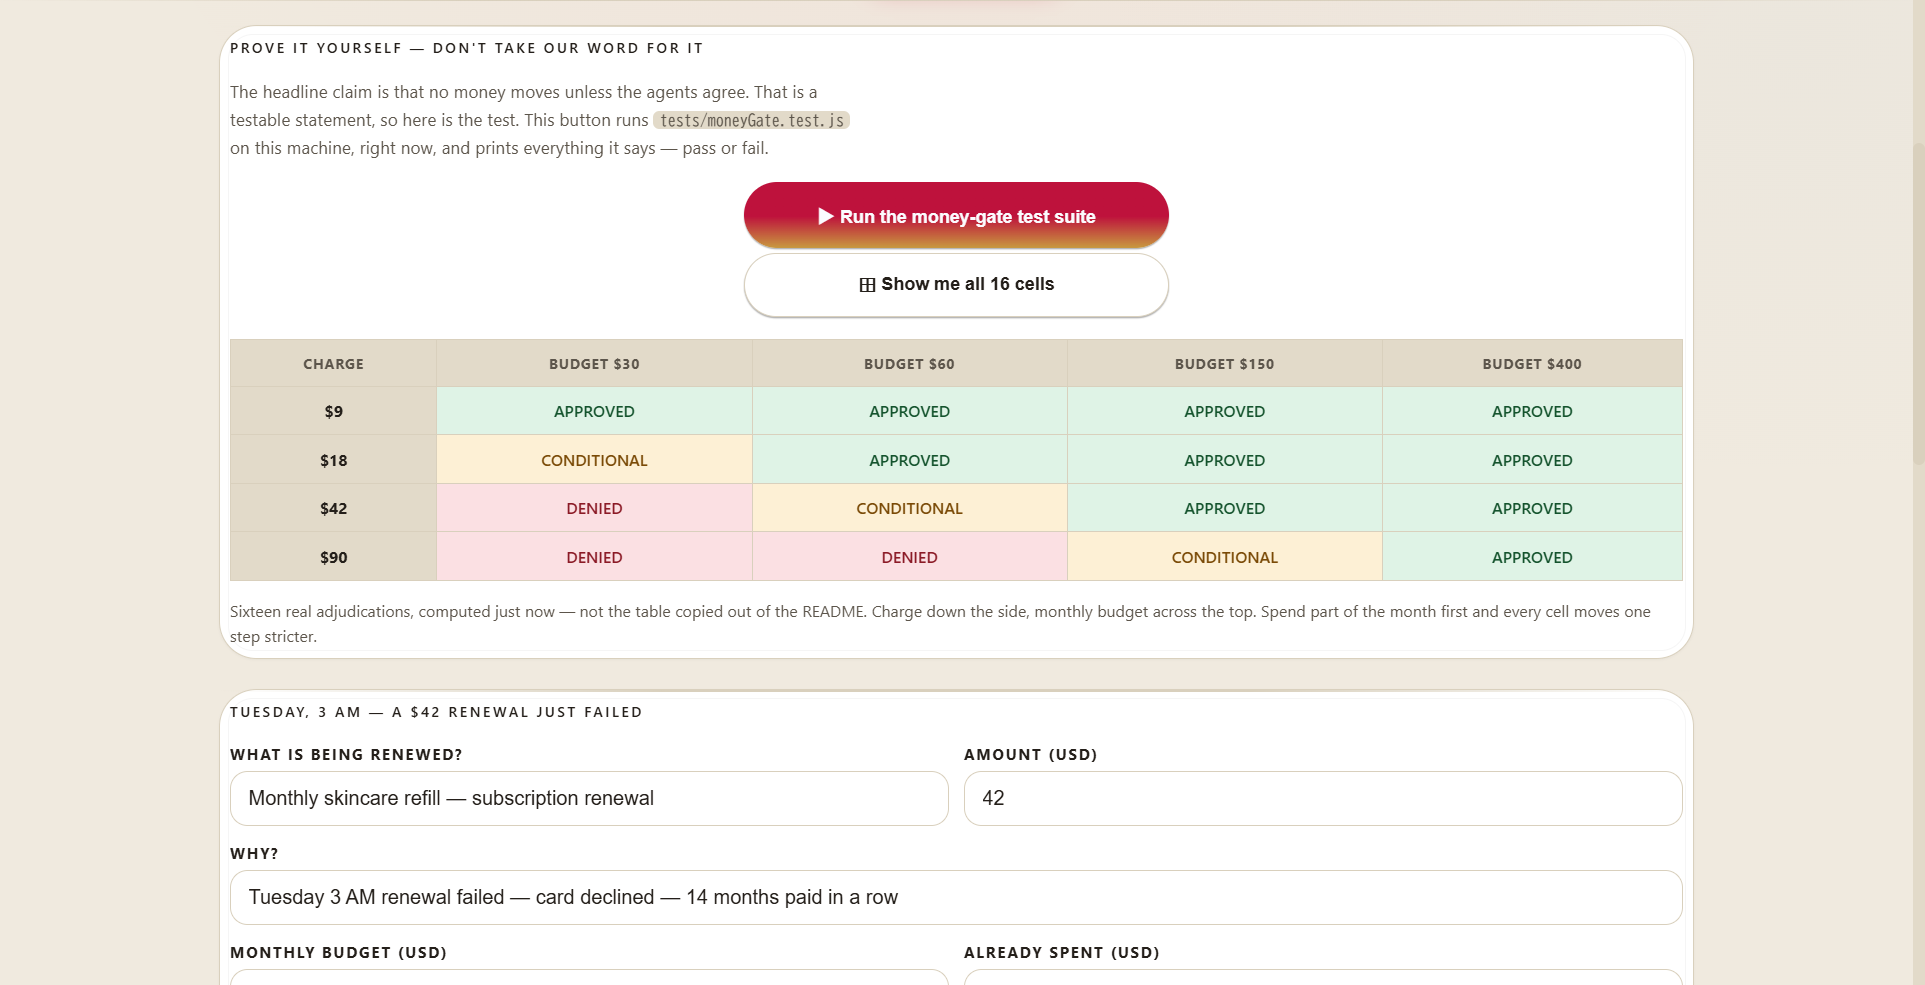
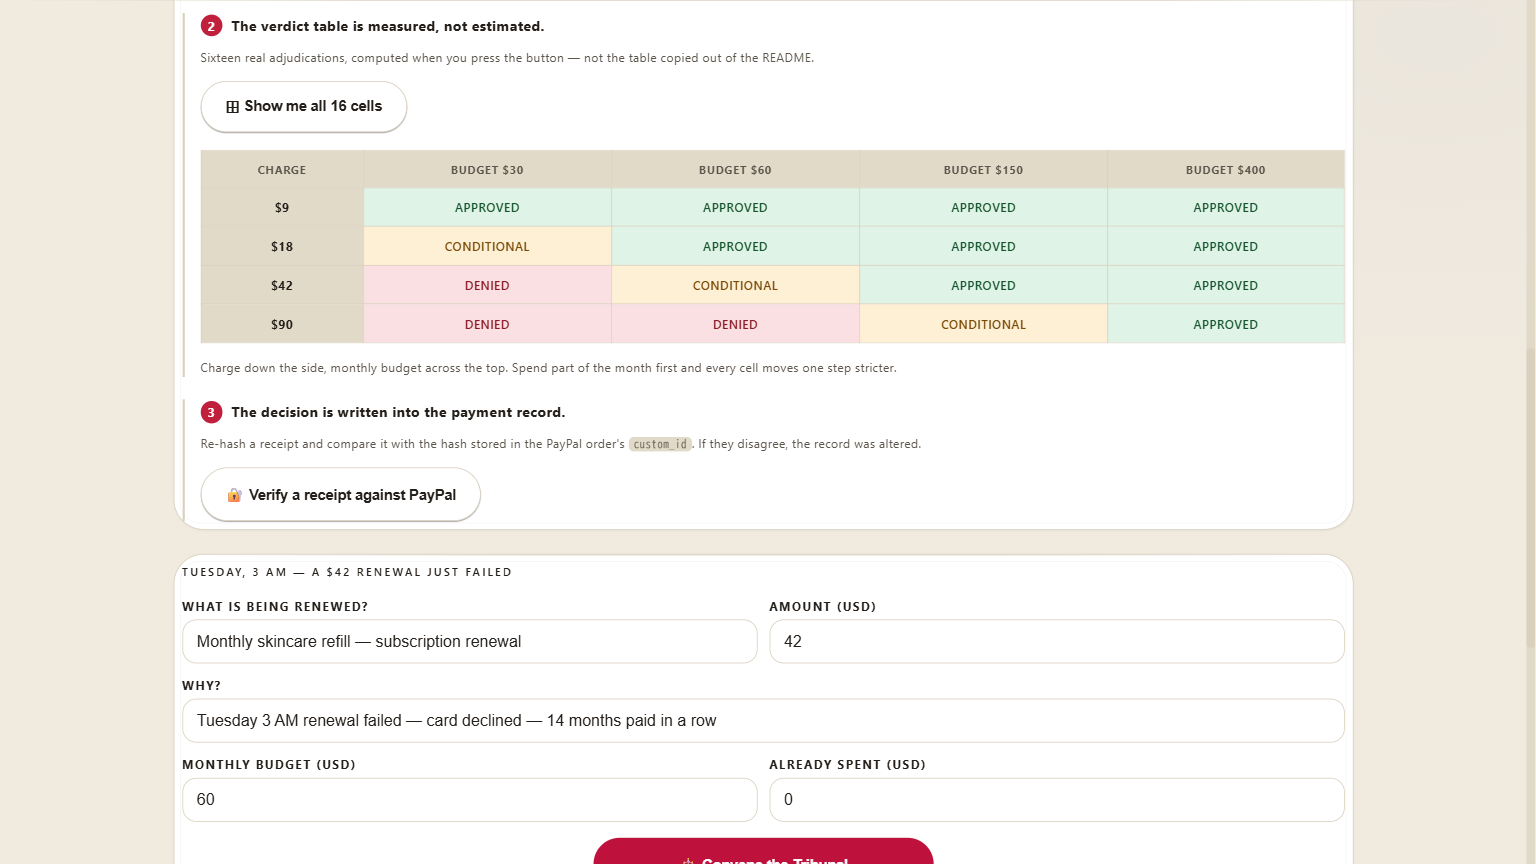
fix: four places where the docs said something the demo does not do
Found by an adversarial pass over the submitted claim "everything is consistent
now". Each one is measurable against the running demo.

1. The 4x4 verdict grid in devpost-submission.md was three cells wrong ($9/$30,
   $18/$60 and $42/$150 all said CONDITIONAL; the server says APPROVED). The
   table is presented as "measured from the running demo" and the page has a
   button that recomputes it live -- so a judge who presses it sees the file
   contradict itself. Regenerated from GET /api/grid; 0 cells differ now.

2. devpost-copy-paste.md named the fifth audit gate G5_sufficient_confidence.
   No such gate exists: src/triad.js declares G5_survives_double_cost. Quoting a
   gate the code does not have reads as never having opened the code.

3. README's screenshot table called 04_debate.png "APPROVED -- the Tribunal
   agrees", but the image shows CONDITIONAL (1 for, 1 against) and captions.json
   and the Devpost text both already said CONDITIONAL. One image was carrying two
   different verdicts. The heading and the body text under it said APPROVED too.

4. 07_proof.png and 08_grid.png were shot before demo/index.html last changed and
   showed hashes the current code cannot produce -- "triad103bc62464564176bb" with
   no colon and "triad1::..." with two. The live ledger only ever emits
   triad1:<16 hex>. Re-shot both after the current UI.

Also fixes the reason 07 could not be re-shot honestly the first time. The server
[…]

diff --git a/_ensure_server.py b/_ensure_server.py
@@ -10,6 +10,7 @@ moment. Pin the absolute interpreter and hand it to the server.
 
 Run:  python _ensure_server.py
 """
+import json
 import os
 import subprocess
 import sys
@@ -47,6 +48,21 @@ def ok():
         return False
 
 
+def proof_works():
+    """The page's money-gate button only works if the server can spawn a working
+    node. Measured: a server started by an older shell (no nodejs on PATH, no
+    TRIAD_NODE) answers /api/ledger fine but returns exit code 3221225794 from
+    /api/proof, because its child spawn dies on startup. A live server is
+    therefore NOT proof that the demo is healthy -- ask the endpoint that needs
+    the child process."""
+    try:
+        with urllib.request.urlopen("http://127.0.0.1:8787/api/proof", timeout=200) as r:
+            j = json.loads(r.read())
+        return bool(j.get("passed")) and j.get("exitCode") == 0
+    except Exception:
+        return False
+
+
 def ensure(verbose=True):
     node = find_node()
     if not node:
@@ -54,10 +70,16 @@ def ensure(verbose=True):
             print("  server: no working node found")
         return False
 
+    # A live server is not enough: /api/ledger answers even when the child spawn is
+    # broken. Only a passing /api/proof proves the demo is actually healthy, and
+    # that is the button a judge presses. Restart if it fails.
+    if ok() and proof_works():
+        if verbose:
+            print("  server: up and /api/proof passes (%s)" % node)
+        return True
     if ok():
         if verbose:
-            print("  server: already up (%s)" % node)
-        return True
+            print("  server: up but /api/proof fails -- restarting with %s" % node)
 
     # clear whatever holds the port
     r = subprocess.run(
@@ -72,21 +94,21 @@ def ensure(verbose=True):
 
     env = dict(os.environ)
     env["PATH"] = os.path.dirname(node) + os.pathsep + env.get("PATH", "")
-    # The server spawns `node tests/moneyGate.test.js` for /api/proof; hand it the
+    # The server spawns `node tests/moneyGate.test.js` for /api/proof. Give it the
     # same absolute interpreter so the child cannot fail to start.
     env["TRIAD_NODE"] = node
 
     log = open(LOG, "w", encoding="utf-8")
     subprocess.Popen([node, "demo/server.mjs"], cwd=BASE, stdout=log,
                      stderr=subprocess.STDOUT, env=env)
-    for _ in range(12):
+    for _ in range(20):
         time.sleep(2)
-        if ok():
+        if ok() and proof_works():
             if verbose:
-                print("  server: started with %s" % node)
+                print("  server: started with %s, /api/proof passes" % node)
             return True
     if verbose:
-        print("  server: FAILED to start")
+        print("  server: FAILED to start or /api/proof still failing")
     return False
 
 

diff --git a/README.md b/README.md
@@ -79,12 +79,13 @@ the label is deliberately blank, because the decision must be about the *purchas
 `deepseek-v4.1-flash` (Advocate) · `gemma4:31b` (Auditor) · `gpt-oss:120b` (Witness).
 Each argues in its own words, states a confidence, and votes. **Disagreement is surfaced, not hidden.**
 
-| Approved — 2 for · 0 against | Blocked by dissent — 1 for · 2 against |
+| Conditional — the Tribunal splits | Blocked by dissent — 1 for · 2 against |
 |---|---|
-| ![APPROVED — the Tribunal agrees and PayPal settles](docs/screenshots/04_debate.png) | ![DENIED — the Auditor and Witness block an over-budget charge](docs/screenshots/03_denied.png) |
+| ![CONDITIONAL — the Tribunal splits, and the dissent is kept](docs/screenshots/04_debate.png) | ![DENIED — the Auditor and Witness block an over-budget charge](docs/screenshots/03_denied.png) |
 
-*Left: a $42 renewal the Tribunal approves, with the PayPal approval link. Right: a $90 charge against a
-$60 monthly budget — the Auditor and Witness block it, and the dissent map shows exactly who disagreed.*
+*Left: a $42 renewal against a $60 budget comes back CONDITIONAL — one vote for, one against, one
+judging — and the purchase does not proceed on a rounded-up yes. Right: a $90 charge against the same
+$60 budget: the Auditor and Witness block it, and the dissent map shows exactly who disagreed.*
 
 ### The governance dashboard — every decision, every vote, every hash
 

diff --git a/devpost-copy-paste.md b/devpost-copy-paste.md
@@ -73,7 +73,7 @@ The demo opens on the story: TUESDAY, 3 AM — A $42 RENEWAL JUST FAILED.
 |---|---|
 | PayPal Orders v2 REST (paypal/client.js) | OAuth2 client-credentials token → POST /v2/checkout/orders with the hash in custom_id. No SDK dependency. |
 | Three independent LLMs | deepseek-v4.1-flash (Advocate), gemma4:31b (Auditor), gpt-oss:120b (Witness) — three models, three prompts, no shared state. |
-| Audit gates | G1_amount_positive, G2_within_remaining, G3_share_under_half, G4_not_repeat_category, G5_sufficient_confidence. The Auditor rejects with named gates, not opinions. |
+| Audit gates | G1_amount_positive, G2_within_remaining, G3_share_under_half, G4_not_repeat_category, G5_survives_double_cost. The Auditor rejects with named gates, not opinions. |
 | Receipts | Canonical JSON → SHA-256 → `triad1:<hash>`, carried in the order's custom_id. The receipt is the audit trail. |
 | AG Grid | The governance dashboard: every decision, every vote, every hash in one ledger. |
 | Bryntum | The vote timeline — one bar per agent vote, green approved / red blocked / blue neutral. |

diff --git a/devpost-submission.md b/devpost-submission.md
@@ -77,9 +77,9 @@ charge down the side. The demo recomputes it live when you press **Show me all 1
 
 | charge \ budget | $30 | $60 | $150 | $400 |
 |---|---|---|---|---|
-| **$9** | CONDITIONAL | APPROVED | APPROVED | APPROVED |
-| **$18** | CONDITIONAL | CONDITIONAL | APPROVED | APPROVED |
-| **$42** | DENIED | CONDITIONAL | CONDITIONAL | APPROVED |
+| **$9** | APPROVED | APPROVED | APPROVED | APPROVED |
+| **$18** | CONDITIONAL | APPROVED | APPROVED | APPROVED |
+| **$42** | DENIED | CONDITIONAL | APPROVED | APPROVED |
 | **$90** | DENIED | DENIED | CONDITIONAL | APPROVED |
 
 Bigger charge, stricter verdict. Bigger budget, looser verdict. Every cell moves for a reason.
